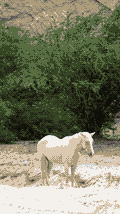
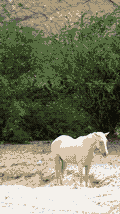
Scenes: subjects clear of the panels; no reddish smudge in now's sky
Crops take an optional zoom and are chosen on the built page with each
section centred: hero's Chisos peak sits right of the YARAikiba card on
desktop and above the intro panel on phones, phd's horse stands above the
PhD panel on desktop with its head beside the deck on phones, and now-m's
lit door shows left of the deck. In now, blue-grey cloud pixels may no
longer land on the warm dark greys (the smudge); the guard is scoped to now,
so srm, cognizant, ms and river are byte-identical. og.png follows hero.

diff --git a/scripts/pixel-scenes.py b/scripts/pixel-scenes.py
@@ -11,14 +11,19 @@ K = 28
 STRENGTH = 14
 PULL = 0.22
 
-# id -> (photo, landscape focal point, portrait focal point), centering for ImageOps.fit
+# id -> (photo, landscape crop, portrait crop); a crop is (cx, cy) or (cx, cy, zoom), see load().
+# Crops are judged on the built page with the section centred: the panel and deck cover most of
+# the middle, so each subject is placed in what they leave free. hero: the Chisos peak right of
+# the YARAikiba card (desktop), in the band above the intro panel (phone). phd: the horse's head
+# and body above the PhD panel (desktop), its head beside the deck (phone). now (phone): the lit
+# door left of the deck.
 SCENES = {
-    'hero':      ('DSC04135.JPG', (0.5, 0.55), (0.5, 0.55)),
+    'hero':      ('DSC04135.JPG', (0.42, 1, 1.3), (0.85, 1, 1.9)),
     'srm':       ('DSC04305.JPG', (0.5, 0.55), (0.5, 0.55)),
     'cognizant': ('DSC04343.JPG', (0.5, 0.55), (0.5, 0.55)),
     'ms':        ('IMG_1444.JPG', (0.5, 0.55), (0.5, 0.55)),
-    'phd':       ('DSC04340.JPG', (0.5, 0.55), (0.5, 0.55)),
-    'now':       ('IMG_7089.JPG', (0.5, 0.55), (0.5, 0.55)),
+    'phd':       ('DSC04340.JPG', (0.82, 1, 1.8), (0.43, 0.55)),
+    'now':       ('IMG_7089.JPG', (0.5, 0.55), (1, 0.5, 1.27)),
     'river':     ('IMG_7241.JPG', (0.5, 0.55), (0.5, 0.55)),
 }
 # The shared palette, fixed so a crop change never recolours the other scenes. It was made by
@@ -33,6 +38,7 @@ PALETTE = [
     (54, 69, 35), (66, 50, 44), (20, 93, 152), (52, 76, 99),
     (24, 39, 54), (40, 47, 29), (31, 31, 17), (14, 15, 8),
 ]
+COOL_GUARD = {'now'}
 TOKENS = [(0xF5,0xF2,0xEC),(0x1D,0x1B,0x18),(0xE9,0xDC,0xC4),(0x8A,0x9A,0x6B),
           (0xA4,0x50,0x2E),(0x4F,0x62,0x72),(0xF0,0xA4,0x3A)]
 LIGHT_TOKENS = TOKENS[:3]   # paper, ink, sand: the only pull targets for pale, low-chroma colours
@@ -42,9 +48,19 @@ def d2(a, b): return sum((x - y) ** 2 for x, y in zip(a, b))
 def lum(c): return 0.299 * c[0] + 0.587 * c[1] + 0.114 * c[2]
 def chroma(c): return max(c) - min(c)
 
-def load(path, size, focal):
+def load(path, size, crop):
+    # crop = (cx, cy) or (cx, cy, zoom): the largest window of the scene's shape, shrunk by zoom,
+    # placed at (cx, cy) of the slack as in ImageOps.fit (zoom 1 is exactly ImageOps.fit).
     im = ImageOps.exif_transpose(Image.open(path)).convert('RGB')
-    im = ImageOps.fit(im, size, Image.LANCZOS, centering=focal)
+    cx, cy, zoom = (*crop, 1)[:3]
+    if zoom == 1:
+        im = ImageOps.fit(im, size, Image.LANCZOS, centering=(cx, cy))
+    else:
+        W, H = im.size
+        cw, ch = (W, W * size[1] / size[0]) if W * size[1] <= H * size[0] else (H * size[0] / size[1], H)
+        cw, ch = cw / zoom, ch / zoom
+        x0, y0 = (W - cw) * cx, (H - ch) * cy
+        im = im.resize(size, Image.LANCZOS, box=(x0, y0, x0 + cw, y0 + ch))
     im = ImageEnhance.Contrast(im).enhance(1.18)
     return ImageEnhance.Color(im).enhance(1.12)
 
@@ -81,12 +97,17 @@ def tame(c):
         return tuple(l + (v - l) * k for v in c)
     return c
 
-def render(im, pal):
+def render(im, pal, cool=False):
     w, h = im.size
     px = im.load()
     idx = []
     vivid = [i for i, c in enumerate(pal) if chroma(c) > 150]
     calm = [i for i in range(len(pal)) if i not in vivid]
+    # now's blue-grey storm cloud sits nearer the warm dark greys than any cool entry and comes
+    # out as a reddish smudge in a blue sky: with `cool`, clearly cool pixels never land on a warm
+    # dark entry. Only the scenes in COOL_GUARD use it, so the other scenes stay as they are.
+    warm_dark = {i for i, c in enumerate(pal) if c[0] > c[2] and lum(c) < 150}
+    cool_pool = [i for i in range(len(pal)) if i not in warm_dark]
     for y in range(h):
         for x in range(w):
             o = (BAYER[y % 4][x % 4] / 16 - 0.5) * STRENGTH
@@ -95,6 +116,7 @@ def render(im, pal):
             # Warm cream shadows (horse, dome) sit nearer a vivid orange entry than any tan one;
             # only genuinely saturated source pixels may land on a vivid palette entry.
             pool = range(len(pal)) if chroma(c) > 110 or not vivid else calm
+            if cool and c[2] - c[0] >= 12: pool = [i for i in pool if i in cool_pool]
             idx.append(min(pool, key=lambda i: d2(p, pal[i])))
     out = Image.new('P', im.size)
     flat = [v for c in pal for v in c]
@@ -118,7 +140,7 @@ def main():
     done = {}
     for k in SCENES:
         for name, im in ((k, lands[k]), (k + '-m', ports[k])):
-            done[name] = render(im, pal)
+            done[name] = render(im, pal, k in COOL_GUARD)
             done[name].save(os.path.join(out_dir, name + '.png'), compress_level=9)
     og = done['hero'].resize((LAND[0] * 6, LAND[1] * 6), Image.NEAREST)
     og.save(os.path.join(ROOT, 'public', 'og.png'), compress_level=9)
